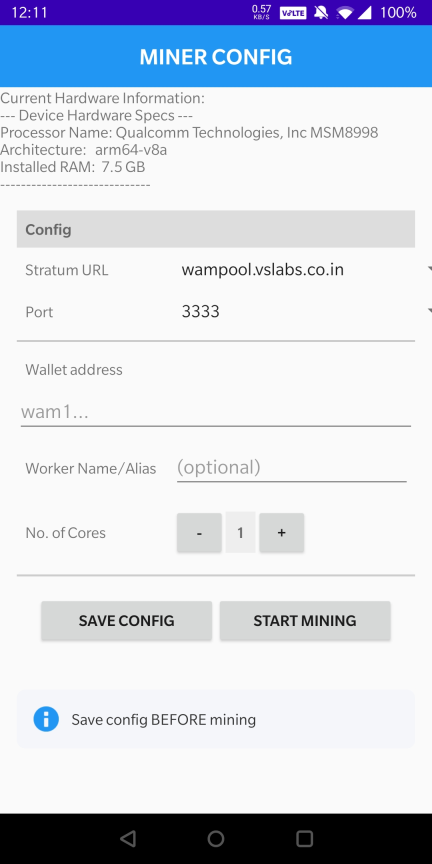
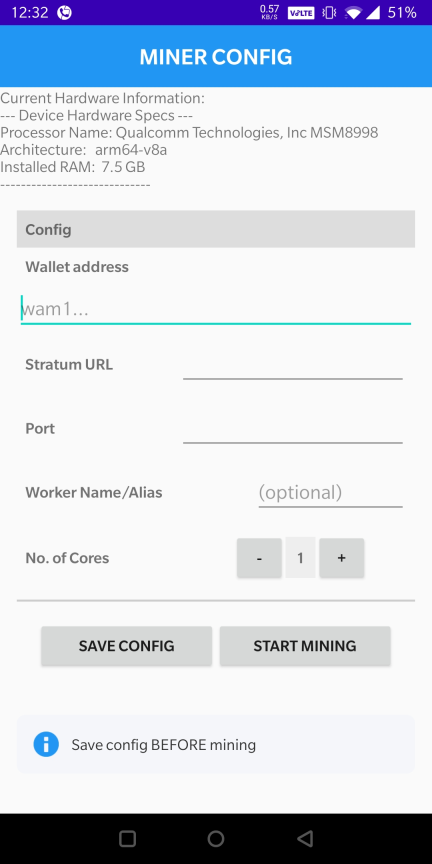
uodated images and readme to reflect changes

diff --git a/contrib/wam-miner-android/MANUAL.md b/contrib/wam-miner-android/MANUAL.md
@@ -9,7 +9,7 @@ background activities, and the operational app flow.
 
 | Screen Image                                      | Description & Application Flow                                                                                                                                                                                                                                                                                                                                                                                                                                                                                                                                                                                                                                                                                                                                                                                            |
 |:--------------------------------------------------|:--------------------------------------------------------------------------------------------------------------------------------------------------------------------------------------------------------------------------------------------------------------------------------------------------------------------------------------------------------------------------------------------------------------------------------------------------------------------------------------------------------------------------------------------------------------------------------------------------------------------------------------------------------------------------------------------------------------------------------------------------------------------------------------------------------------------------|
-| ![Main Screen Screenshot](images/main_screen.png) | **Screen Description**<br>The initial landing screen that welcomes users to the application and provides access to project details.<br><br>**UI Controls & Actions**<br>• **Get Started Button:** Takes User to the Miner Configuration screen.<br>• **About Icon:** Opens an information dialog displaying application version details.<br><br>**Background Activity**<br>• Detects Hardware information of device and displays it to the user on screen load.<br>• Runs a GET call to https://wamnode.vslabs.co.in/api/getpools to get a list of available pools and their port(s).<br>• The Get Started button enables ONLY if this succeeds.<br>• Checks if an existing configuration exists.<br><br>**What Happens Next**<br>• Clicking "Get Started" transitions the user directly to the **Configuration Screen**. |
+| ![Main Screen Screenshot](images/main_screen.png) | **Screen Description**<br>The initial landing screen that welcomes users to the application and provides access to project details.<br><br>**UI Controls & Actions**<br>• **Get Started Button:** Takes User to the Miner Configuration screen.<br>• **About Icon:** Opens an information dialog displaying application version details.<br><br>**Background Activity**<br>• Detects Hardware information of device and displays it to the user on screen load.<br>• Checks if an existing configuration exists on device.<br><br>**What Happens Next**<br>• Clicking "Get Started" transitions the user directly to the **Configuration Screen**. |
 
 ---
 
@@ -17,7 +17,7 @@ background activities, and the operational app flow.
 
 | Screen Image                                      | Description & Application Flow                                                                                                                                                                                                                                                                                                                                                                                                                                                                                                                                                                                                                                                                                                                                                                                                                                    |
 |:--------------------------------------------------|:------------------------------------------------------------------------------------------------------------------------------------------------------------------------------------------------------------------------------------------------------------------------------------------------------------------------------------------------------------------------------------------------------------------------------------------------------------------------------------------------------------------------------------------------------------------------------------------------------------------------------------------------------------------------------------------------------------------------------------------------------------------------------------------------------------------------------------------------------------------|
-| ![Configuration Screen](images/config_screen.png) | **Screen Description**<br>Miner Configuration setup screen<br><br>**UI Controls & Actions**<br>• **Stratum URL & Port:** Selection drop-downs to target specific mining pool servers and their respective ports.<br>• **Wallet Address & Worker Name Fields:** Input text fields for defining the payout address and the rig name.<br>• **Cores :** Interactive controls to decrease or increase the number of allocated CPU cores.<br>• **Save Config Button:** Saves the configuration and prepares miner service.<br>• **Start Mining Button:** Immediately launches the miner threads and attaches them to the miner service.<br><br>**Background Activity**<br>• No background activity until a button is pressed.<br><br>**What Happens Next**<br>• Clicking "Start Mining" provisions the execution threads and redirects the user to the **Logs Screen**. |
+| ![Configuration Screen](images/config_screen.png) | **Screen Description**<br>Miner Configuration setup screen<br><br>**UI Controls & Actions**<br>• **Wallet Address:** Enter a valid WAM wallet address to receive payouts.<br>• **Stratum URL:** Enter the URL of the mining pool to connect to<br>• **Port:** Enter the port number of the mining pool<br>• **Worker Name/Alias:** Enter the Rig Name<br>• **No. of Cores:** Set number of processor cores to allocate to mining<br> **Save Config:** Saves the configuration to device and prepares miner service.<br> **Start Mining Button:** Immediately launches the miner threads and attaches them to the miner service.<br><br>**Background Activity**<br>• No background activity until a button is pressed.<br><br>**What Happens Next**<br>• Clicking "Start Mining" provisions the execution threads and redirects the user to the **Logs Screen**. |
 
 ---
 
